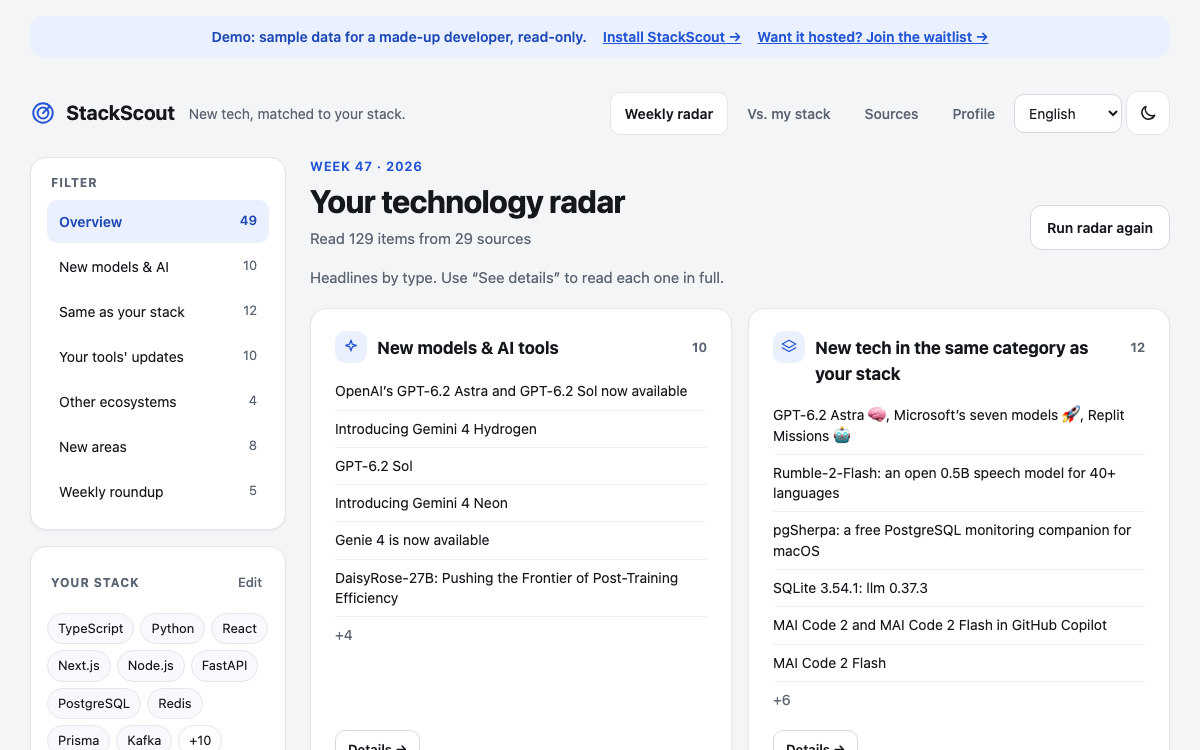
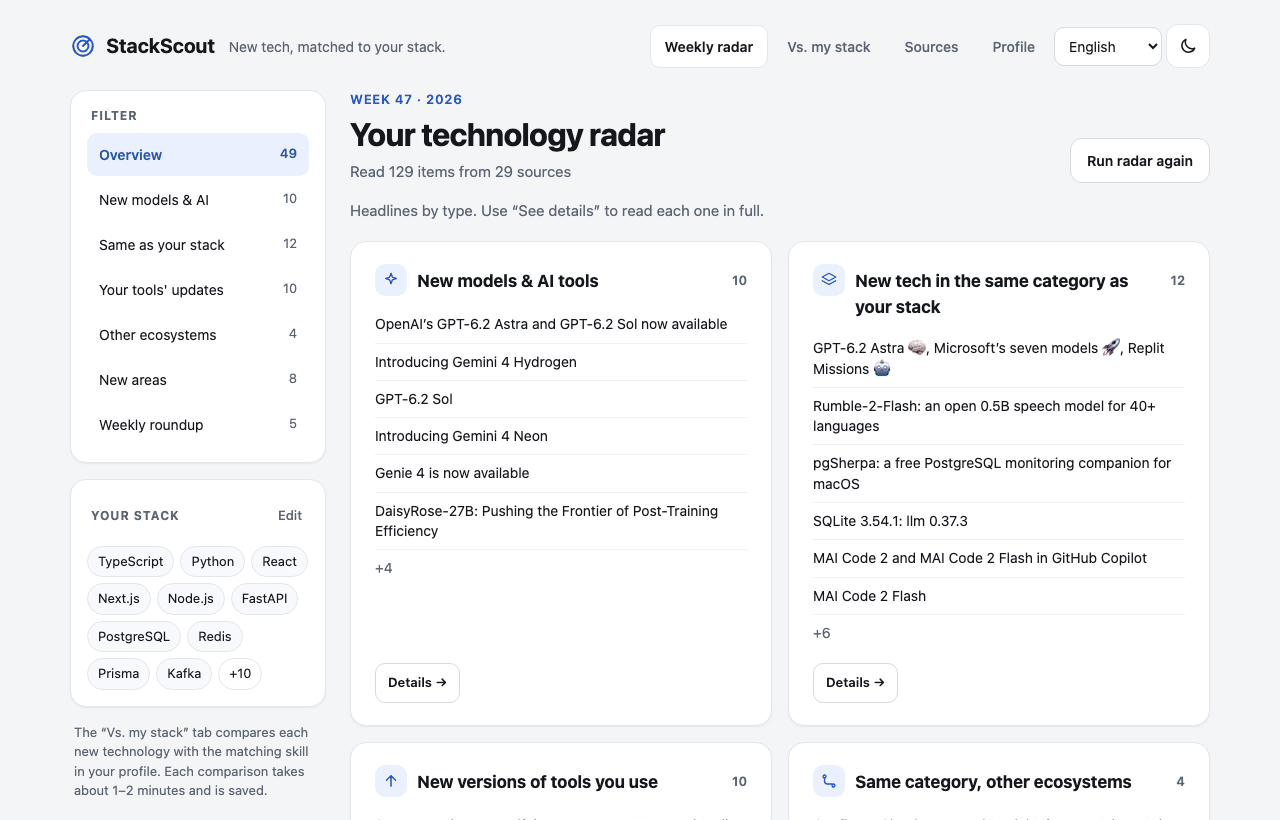
README: show every main feature with a screenshot
Feature sections with real screenshots from the demo and the rendered email
and Telegram digests (scripts/screenshots.py). Digests no longer show a stack
verdict under a new model; longer limits for comparison texts.

diff --git a/scripts/screenshots.py b/scripts/screenshots.py
@@ -1,0 +1,95 @@
+"""README screenshots, taken from the demo build and the real digest renderers.
+
+    uv run scripts/build_demo.py
+    uv run --with playwright --with pillow scripts/screenshots.py
+    (once: uv run --with playwright playwright install chromium)
+
+Writes docs/assets/*.png. PLAYWRIGHT_CHROMIUM=<path> picks a specific browser binary.
+"""
+import io, json, os, re, sys, pathlib
+from playwright.sync_api import sync_playwright
+from PIL import Image
+
+ROOT = pathlib.Path(__file__).resolve().parents[1]
+sys.path.insert(0, str(ROOT))
+from stackscout import render  # noqa: E402
+
+DEMO = (ROOT / "docs" / "index.html")
+OUT = ROOT / "docs" / "assets"; OUT.mkdir(parents=True, exist_ok=True)
+CHROME = os.environ.get("PLAYWRIGHT_CHROMIUM") or None
+
+def save(png: bytes, name: str, width: int | None = None):
+    img = Image.open(io.BytesIO(png)).convert("RGB")
+    if width and img.width > width:
+        img = img.resize((width, round(img.height * width / img.width)), Image.LANCZOS)
+    img.quantize(colors=256, method=Image.Quantize.MEDIANCUT, dither=Image.Dither.NONE).save(OUT / name, optimize=True)
+    print(f"{name}: {img.width}x{img.height} {(OUT / name).stat().st_size // 1024} KB")
+
+snap = json.loads(re.search(r"window.SS_DEMO = (\{.*?\});</script>", DEMO.read_text(), re.S).group(1).replace("<\\/", "</"))
+
+with sync_playwright() as p:
+    b = p.chromium.launch(executable_path=CHROME)
+    ctx = b.new_context(viewport={"width": 1280, "height": 820}, locale="en-US", device_scale_factor=1)
+    page = ctx.new_page()
+    page.goto(DEMO.as_uri()); page.evaluate("localStorage.setItem('ss-theme','light')"); page.reload(); page.wait_for_selector(".ovcard")
+    page.evaluate("document.querySelector('.demobar')?.remove()")
+    def clean():
+        page.evaluate("document.querySelector('.demobar')?.remove()")
+
+    save(page.screenshot(), "overview.png")
+    # New models & AI: the feed, then the rivals drawer
+    page.locator("aside .filters button").nth(1).click(); page.wait_for_timeout(250); clean()
+    page.locator(".titlebtn").first.click(); page.wait_for_selector(".drawer .rival"); page.wait_for_timeout(250); clean()
+    save(page.screenshot(), "rivals.png")
+    page.keyboard.press("Escape")
+    # Vs. my stack: grouped list, then one comparison's details and its sources
+    page.locator("nav.topnav .tab").nth(1).click(); page.wait_for_timeout(300); clean()
+    save(page.screenshot(), "vs-stack.png")
+    # The comparison with full texts (nothing cut with "…") and the most independent sources.
+    shown = page.locator("article.item strong").all_inner_texts()
+    best = max((c for k, c in snap["comparisons"].items()
+                if not c.get("fit", "").endswith("…") and not c.get("what_is_new", "").endswith("…")
+                and any(c["new"] == n or n.startswith(c["new"] + " ") for n in shown)),
+               key=lambda c: (c.get("independent_sources", 0), len(c.get("pros", [])) + len(c.get("cons", []))))
+    print("detail:", best["new"], "vs", best["current"])
+    art = page.locator("article.item").filter(has=page.locator("strong", has_text=best["new"])).first
+    art.locator("button.cmpline").click(); page.wait_for_selector(".drawer .verdict"); page.wait_for_timeout(250); clean()
+    save(page.locator(".drawer").screenshot(), "stack-detail.png", width=560)
+    page.locator(".drawer").evaluate("d => d.scrollTop = d.scrollHeight"); page.wait_for_timeout(200)
+    save(page.locator(".drawer").screenshot(), "sources-cited.png", width=560)
+    page.keyboard.press("Escape")
+    # Profile and sources
+    page.locator("nav.topnav .tab").nth(3).click(); page.wait_for_timeout(300); clean()
+    save(page.screenshot(), "profile.png")
+    page.locator("nav.topnav .tab").nth(2).click(); page.wait_for_timeout(400); clean()
+    save(page.screenshot(), "sources.png")
+    # Dark theme in Japanese, light in Vietnamese
+    page.locator("nav.topnav .tab").first.click(); page.locator("aside .filters button").first.click()
+    page.locator("nav.topnav select").select_option("ja"); page.locator("header .iconbtn").click(); page.wait_for_timeout(300); clean()
+    save(page.screenshot(), "dark-ja.png", width=900)
+    page.locator("header .iconbtn").click(); page.locator("nav.topnav select").select_option("vi"); page.wait_for_timeout(300); clean()
+    save(page.screenshot(), "light-vi.png", width=900)
+    ctx.close()
+
+    # Phone: the compare tab
+    m = b.new_context(viewport={"width": 390, "height": 780}, locale="en-US", device_scale_factor=2, is_mobile=True).new_page()
+    m.goto(DEMO.as_uri()); m.wait_for_selector(".ovcard"); m.evaluate("document.querySelector('.demobar')?.remove()")
+    m.locator("aside .filters button").nth(1).click(); m.wait_for_timeout(200)
+    m.locator(".titlebtn").first.click(); m.wait_for_selector(".drawer .rival"); m.wait_for_timeout(300)
+    save(m.screenshot(), "mobile.png", width=390)
+    m.context.close()
+
+    # The weekly digest as it is delivered: email (HTML) and Telegram (HTML message)
+    model = render.build(snap["report"], snap["comparisons"], snap["market"], "en")
+    _, _, page_html = render.email(model)
+    e = b.new_context(viewport={"width": 760, "height": 900}).new_page()
+    e.set_content('<div style="background:#f3f4f6;padding:24px"><div style="background:#fff;border-radius:12px;padding:24px 28px;'
+                  'box-shadow:0 1px 3px rgba(0,0,0,.08)"><div style="font:600 13px -apple-system,Segoe UI,sans-serif;color:#6b7280;'
+                  f'margin-bottom:14px">Subject: {model["subject"]}</div>{page_html}</div></div>')
+    save(e.screenshot(), "digest-email.png")
+    msg = render.telegram(model)[0]
+    e.set_content('<div style="background:#0e1621;padding:24px;min-height:900px"><div style="max-width:620px;background:#182533;color:#e9edef;'
+                  'border-radius:14px;padding:14px 16px;font:14px/1.5 -apple-system,Segoe UI,sans-serif;white-space:pre-wrap">'
+                  + msg.replace("<a ", '<a style="color:#6ab3f3" ') + '</div></div>')
+    save(e.screenshot(), "digest-telegram.png")
+    b.close()

diff --git a/tests/test_radar.py b/tests/test_radar.py
@@ -264,7 +264,7 @@ def test_compare_caps_length_for_the_newsletter():
         "cons": [{"text": f"con {i}", "sources": [2]} for i in range(6)]})
     assert len(out["pros"]) == len(out["cons"]) == compare.MAX_CLAIMS
     assert len(out["pros"][0]["text"]) == compare.MAX_CLAIM_CHARS and out["pros"][0]["text"].endswith("…")
-    assert len(out["what_is_new"]) <= 320 and len(out["fit"]) <= 260
+    assert len(out["what_is_new"]) <= 600 and len(out["fit"]) <= 500
 
 
 # ---------------------------------------------------------------- digest end to end
@@ -577,3 +577,11 @@ def test_schedule_next_run_is_the_coming_weekday():
     assert main.next_run(wed, "mon", "08:00") == datetime(2026, 11, 23, 8, 0, tzinfo=tz)
     assert main.next_run(wed, "wed", "10:30") == datetime(2026, 11, 18, 10, 30, tzinfo=tz)  # later today
     assert main.next_run(wed, "wed", "08:00") == datetime(2026, 11, 25, 8, 0, tzinfo=tz)  # already passed
+
+
+def test_digest_shows_no_stack_verdict_under_a_new_model():
+    report = {"week": "2026-W47", "stats": {"items": 1, "sources": 1},
+              "ai_news": [{"name": "Gemini 4", "group": "models", "category": "llm-provider-sdk", "rivals": ["Anthropic SDK"]}]}
+    text = "\n".join(digest.render_telegram(report, {"gemini 4|anthropic sdk": {"current": "Anthropic SDK", "recommendation": "trial"}},
+                                           lang="en", market={"gemini 4": {"rivals": [{"name": "GPT-6.2"}]}}))
+    assert "vs Anthropic SDK" not in text and "↳ Vs.: GPT-6.2" in text

diff --git a/stackscout/render.py b/stackscout/render.py
@@ -13,6 +13,8 @@ from typing import Callable
 from . import i18n
 
 AI_GROUP_ORDER = ("models", "coding", "agents")
+# New models are compared with rival models (market), never with an SDK of the stack.
+MODEL_CATEGORIES = frozenset({"llm-provider-sdk", "local-llm-inference"})
 # Reports written before group codes stored the Vietnamese label.
 AI_GROUP_FROM_VI = {"Model mới": "models", "Công cụ AI lập trình": "coding", "Agent & framework": "agents"}
 ECOSYSTEM_LABEL = {"dotnet": ".NET", "node": "Node.js", "python": "Python", "jvm": "JVM", "go": "Go",
@@ -99,6 +101,8 @@ def _item(b: dict, detail: str = "", verdicts: list[str] | None = None) -> dict:
 
 
 def _stack_verdict(b: dict, comparisons: dict, lang: str) -> list[str]:
+    if b.get("category") in MODEL_CATEGORIES:
+        return []
     for rival in b.get("rivals") or []:
         c = comparisons.get(f"{b['name'].casefold()}|{rival.casefold()}")
         if c:

diff --git a/stackscout/compare.py b/stackscout/compare.py
@@ -129,10 +129,10 @@ def finalize(tech: dict, rival: str, data: dict) -> dict:
         "category": tech["category"],
         "category_label": config.categories().get(tech["category"], tech["category"]),
         "ecosystem": tech["ecosystem"],
-        "what_is_new": _cap(str(data.get("what_is_new") or tech.get("summary") or ""), 320),
+        "what_is_new": _cap(str(data.get("what_is_new") or tech.get("summary") or ""), 600),
         "pros": pros,
         "cons": cons,
-        "fit": _cap(str(data.get("fit") or ""), 260),
+        "fit": _cap(str(data.get("fit") or ""), 500),
         "recommendation": recommendation,
         "confidence": confidence,
         "sources": sources,

diff --git a/stackscout/digest.py b/stackscout/digest.py
@@ -38,7 +38,8 @@ AI_GROUPS = {
 AI_GROUP_ORDER = ("models", "coding", "agents")
 # "llm-provider-sdk" holds both models and SDKs: a new model is never compared
 # with an SDK of the stack, only with rival models (market comparison).
-MODEL_CATEGORIES = frozenset(c for c, g in AI_GROUPS.items() if g == "models")
+MODEL_CATEGORIES = render.MODEL_CATEGORIES
+assert MODEL_CATEGORIES == {c for c, g in AI_GROUPS.items() if g == "models"}
 MAX_THEME_ITEMS = 150
 
 

diff --git a/README.md b/README.md
@@ -18,18 +18,96 @@ A weekly tech radar that reads the sources that matter, picks what is relevant t
 
 Keeping up is a part-time job: new models every week, new libraries, release notes, benchmarks that disagree. Most newsletters list *everything*. StackScout starts from **your stack** and answers one question per item: *should I care, and how does it compare with what I use today?*
 
-- **New models & AI tools first**, straight from first-party channels (Anthropic, OpenAI, Google DeepMind, Gemini, Hugging Face…), each compared with its **3–5 strongest competitors**: pros, cons, which one to pick, every claim linked.
-- **Vs. my stack**: every new technology of the same kind as one of your tools is **compared automatically** with that tool: *adopt, trial, watch or skip*, with independent benchmarks preferred over vendor marketing.
-- **Your tools' updates**, other ecosystems, new areas worth a look, and a weekly roundup, in one short digest.
-- **Delivered where you read**: web, Telegram, email, Slack, Discord or any webhook.
-- **5 languages**: English, Tiếng Việt, 中文, 日本語, 한국어 (interface, AI-written content and digests).
-- **Private by design**: your profile is a list of technology names and levels. No project names, no employer, nothing about your work.
+## Features
+
+### 📡 Your week at a glance
+
+One page with the headlines of the week, grouped by what they mean for you: new AI models and tools, new tech of the same kind as your stack, updates to tools you already use, other ecosystems, new areas, and a roundup. Click **Details** to read each group in full.
+
+<img src="docs/assets/overview.png" alt="Weekly overview: headlines grouped by type" width="100%">
+
+### 🤖 New AI models, compared with their strongest rivals
+
+Straight from first-party channels (Anthropic, OpenAI, Google DeepMind, Gemini, Hugging Face…). Click a model and StackScout has already looked up its **3–5 strongest competitors**: what it does better, what it does worse, and which one to pick, with benchmark numbers, prices and a link behind every line.
+
+<img src="docs/assets/rivals.png" alt="GPT-6.2 Astra compared with Claude Fable 5.2, Gemini 4 Carbon and others" width="100%">
+
+### 🧩 Compared with your stack, automatically
+
+Every new technology of the same kind as one of your tools is compared with that tool right after the radar runs, grouped by your skills. Each one gets a verdict, **adopt, trial, watch or skip**, plus what fits you and what doesn't. Use **⋯** to compare it with any other tool in your profile.
+
+<table>
+<tr>
+<td width="62%"><img src="docs/assets/vs-stack.png" alt="New tools grouped by the skill they compete with, each with a verdict"></td>
+<td width="38%"><img src="docs/assets/stack-detail.png" alt="SQLite vs PostgreSQL: verdict, fit, pros and cons"></td>
+</tr>
+</table>
+
+### 🔗 Every claim has a source
+
+Rules enforced in code, not left to the AI:
+
+- a pro or con without a valid link is dropped;
+- fewer than 2 sources means *"not enough data yet"*;
+- independent benchmarks and hands-on reports are preferred, and labelled; with no independent source, confidence can't be *high*.
+
+<table>
+<tr>
+<td width="50%"><img src="docs/assets/sources-cited.png" alt="Numbered sources, independent ones labelled"></td>
+<td width="50%">
+
+**What you see in each comparison**
+
+- the verdict and the confidence, with how many sources are independent
+- a short *for you* note based on your stack
+- what is new, in one or two sentences
+- at most 3 pros and 3 cons, each with its sources `[1]` `[2]`
+- the source list: vendor posts, independent benchmarks, experience reports
+
+</td>
+</tr>
+</table>
+
+### 📬 The digest, where you read
+
+Every week, in your language, on any of: **Telegram, email, Slack, Discord**, or any **webhook** (n8n, Zapier, Make…). Under each item: the verdict against your tool, or the rivals of a new model.
+
+<table>
+<tr>
+<td width="50%"><b>Email</b><br><img src="docs/assets/digest-email.png" alt="Weekly digest by email"></td>
+<td width="50%"><b>Telegram</b><br><img src="docs/assets/digest-telegram.png" alt="Weekly digest on Telegram"></td>
+</tr>
+</table>
+
+### 👤 Your profile in your own words, private by design
+
+Type what you use, typos and all (*"c#, entity framwork, postgres, k8s"*), or generate it from your code or CV with the included prompt. AI turns it into canonical names and levels; you confirm before anything is saved. **Only technology names and levels are stored**: no project names, no employer, nothing about your work.
+
+<img src="docs/assets/profile.png" alt="Skill profile grouped by category, with levels" width="100%">
+
+### 📰 Sources that matter, picked for your stack
+
+About 60 curated, live feeds. First-party AI channels are always on, the official blogs and release feeds of *your* technologies switch on by themselves, and community sources (Hacker News, trending GitHub repos, Lobsters…) are one click away. Add any blog, RSS feed or GitHub repo.
+
+<img src="docs/assets/sources.png" alt="Source list with first-party and official feeds" width="100%">
+
+### 🌏 5 languages, light and dark, on your phone
+
+English, Tiếng Việt, 中文, 日本語, 한국어: the interface, the AI-written summaries and comparisons, the digests and the Telegram bot.
+
+<table>
+<tr>
+<td width="40%"><img src="docs/assets/dark-ja.png" alt="Dark theme in Japanese"></td>
+<td width="40%"><img src="docs/assets/light-vi.png" alt="Light theme in Vietnamese"></td>
+<td width="20%"><img src="docs/assets/mobile.png" alt="Rival comparison on a phone"></td>
+</tr>
+</table>
 
 ## How it works
 
-1. **Profile.** Describe what you use in your own words ("c#, entity framwork, postgres, k8s"), or generate it from your code or CV with the included prompt. AI normalises it to canonical names and a fixed taxonomy; you confirm before anything is saved.
-2. **Sources.** ~60 curated, live feeds (`config/industries.yaml`): first-party AI channels always on; official blogs and release feeds for *your* stack switch on automatically; community sources (Hacker News, trending GitHub repos, Lobsters…) are opt-in. Add any blog, RSS feed or GitHub repo.
-3. **Radar.** Each week's items are classified into the same taxonomy, then **matched in plain Python**:
+1. **Profile**: your technologies and levels, normalised to a fixed taxonomy.
+2. **Collect**: the week's items from your sources (RSS/Atom, release feeds, Hacker News, GitHub, sitemaps), deduplicated across weeks.
+3. **Classify** with AI into the same taxonomy, then **match in plain Python**:
 
    | Match | What you get |
    |---|---|
@@ -39,11 +117,7 @@ Keeping up is a part-time job: new models every week, new libraries, release not
    | New model or AI tool | **Comparison with its strongest competitors** |
    | Category you don't have yet | "Worth a look" |
 
-### Rules enforced in code, not left to the AI
-
-- A pro or con without a valid source link is dropped; fewer than 2 sources means *"not enough data yet"*; no independent source caps confidence at *medium*.
-- Every AI step runs without tools, except comparisons, which get web search and fetch only. Your profile is never put in a search query.
-- Items already reported in an earlier week are skipped.
+4. **Compare** with web search, then enforce the source rules in code; **deliver** on your channels.
 
 ## Quick start
 
@@ -106,6 +180,7 @@ The **Sources** tab shows which channels are on and can send the latest digest a
 
 - Your profile stores **technology names and levels only**. Project names, repos, what they are for and anything about your employer are dropped on save and on import; URLs, emails, IPs, hostnames and secret-looking strings are scrubbed from free text.
 - Secrets (API key, bot token, SMTP password, webhook URLs) live in `.env` and never go through the browser.
+- Every AI step runs without tools, except comparisons, which get web search and fetch only. Your profile is never put in a search query.
 - Data stays on your machine: `data/` (profiles, sources, comparisons) and `reports/` are plain files.
 
 ## Project layout

diff --git a/README.vi.md b/README.vi.md
@@ -2,13 +2,83 @@
 
 **Công nghệ mới, đối chiếu với stack của bạn.** · [English](README.md) · [Xem demo](https://huynguyenvietwork.github.io/StackScout/)
 
-StackScout là radar công nghệ hằng tuần: đọc các nguồn chính chủ và uy tín, chọn ra tin liên quan tới **đúng những công cụ bạn đang dùng**, rồi tự so sánh từng công nghệ mới với chúng, mọi nhận định đều có link nguồn.
+StackScout là radar công nghệ hằng tuần: đọc các nguồn chính chủ và uy tín, chọn ra tin liên quan tới **đúng những công cụ bạn đang dùng**, rồi tự so sánh từng công nghệ mới với chúng. Mọi nhận định đều có link nguồn.
 
-- **Model & công cụ AI mới** từ kênh chính chủ (Anthropic, OpenAI, Google DeepMind, Gemini…), mỗi cái được so với **3–5 đối thủ mạnh nhất**: hơn, kém, nên chọn khi nào.
-- **So với stack**: công nghệ mới cùng loại với công cụ bạn dùng được **tự động so sánh**: nên chuyển, thử nghiệm, theo dõi hay bỏ qua. Ưu tiên benchmark độc lập.
-- **Gửi bản tin hằng tuần** qua web, Telegram, email, Slack, Discord hoặc webhook.
-- **5 ngôn ngữ**: Tiếng Việt, English, 中文, 日本語, 한국어.
-- **Bảo mật**: hồ sơ chỉ lưu tên công nghệ và mức độ, không lưu tên dự án hay thông tin công ty.
+![StackScout demo](docs/assets/demo.gif)
+
+## Tính năng chính
+
+### 📡 Cả tuần trong một màn hình
+
+Tiêu đề tin trong tuần được chia theo loại: model và công cụ AI mới, công nghệ cùng loại với stack của bạn, bản mới của công cụ bạn đang dùng, hệ sinh thái khác, lĩnh vực mới và tổng hợp tuần. Bấm **Xem chi tiết** để đọc đầy đủ từng loại.
+
+<img src="docs/assets/overview.png" alt="Màn tổng quan" width="100%">
+
+### 🤖 Model AI mới, so với các đối thủ mạnh nhất
+
+Tin lấy thẳng từ kênh chính chủ (Anthropic, OpenAI, Google DeepMind, Gemini, Hugging Face…). Bấm vào một model là thấy ngay so sánh với **3–5 đối thủ mạnh nhất**: hơn gì, kém gì, nên chọn khi nào. Có số liệu benchmark, giá, và link nguồn cho từng ý.
+
+<img src="docs/assets/rivals.png" alt="So sánh model với đối thủ" width="100%">
+
+### 🧩 Tự so sánh với stack của bạn
+
+Mỗi công nghệ mới cùng loại với một công cụ bạn dùng được **tự so sánh** ngay sau khi radar chạy, và chia theo từng skill. Mỗi cái có kết luận: **nên chuyển, thử nghiệm, theo dõi hay bỏ qua**, kèm nhận xét phù hợp với bạn đến đâu. Bấm **⋯** để so với công cụ khác trong hồ sơ.
+
+<table>
+<tr>
+<td width="62%"><img src="docs/assets/vs-stack.png" alt="Danh sách so sánh theo skill"></td>
+<td width="38%"><img src="docs/assets/stack-detail.png" alt="Chi tiết SQLite so với PostgreSQL"></td>
+</tr>
+</table>
+
+### 🔗 Nhận định nào cũng có nguồn
+
+Các quy tắc này được kiểm tra bằng code, không phó mặc cho AI:
+
+- ý hơn/kém nào không có link hợp lệ thì bị bỏ;
+- dưới 2 nguồn thì ghi *"chưa đủ dữ liệu"*;
+- ưu tiên benchmark độc lập và bài trải nghiệm thật, có gắn nhãn; không có nguồn độc lập thì độ tin cậy không được ghi *cao*.
+
+<img src="docs/assets/sources-cited.png" alt="Danh sách nguồn có nhãn độc lập" width="50%">
+
+### 📬 Bản tin gửi tới nơi bạn đọc
+
+Mỗi tuần, theo ngôn ngữ của bạn, qua **Telegram, Email, Slack, Discord** hoặc **webhook** (n8n, Zapier, Make…). Dưới mỗi tin có kết luận so với công cụ của bạn, hoặc danh sách đối thủ của model mới.
+
+<table>
+<tr>
+<td width="50%"><b>Email</b><br><img src="docs/assets/digest-email.png" alt="Bản tin qua email"></td>
+<td width="50%"><b>Telegram</b><br><img src="docs/assets/digest-telegram.png" alt="Bản tin qua Telegram"></td>
+</tr>
+</table>
+
+### 👤 Hồ sơ gõ tự nhiên, bảo mật từ thiết kế
+
+Cứ gõ những gì bạn dùng, sai chính tả cũng được (*"c#, entity framwork, postgres, k8s"*), hoặc tạo từ code hay CV bằng prompt có sẵn. AI chuẩn hoá tên và mức độ, bạn xác nhận rồi mới lưu. **Chỉ lưu tên công nghệ và mức độ**: không lưu tên dự án, công ty hay bất cứ gì về công việc.
+
+<img src="docs/assets/profile.png" alt="Hồ sơ kỹ năng" width="100%">
+
+### 📰 Nguồn tin chất lượng, chọn theo stack
+
+Khoảng 60 nguồn đã chọn lọc và kiểm tra còn hoạt động:
+- **Kênh AI chính chủ** luôn bật.
+- **Blog và trang phát hành chính thức** của công nghệ bạn dùng tự bật theo hồ sơ.
+- **Nguồn cộng đồng** (Hacker News, repo GitHub mới nổi…) bật bằng một cú bấm.
+- Thêm được bất kỳ blog, RSS hay repo GitHub nào.
+
+<img src="docs/assets/sources.png" alt="Danh sách nguồn tin" width="100%">
+
+### 🌏 5 ngôn ngữ, giao diện sáng/tối, dùng tốt trên điện thoại
+
+Tiếng Việt, English, 中文, 日本語, 한국어 cho cả giao diện, nội dung AI viết, bản tin và bot Telegram.
+
+<table>
+<tr>
+<td width="40%"><img src="docs/assets/dark-ja.png" alt="Giao diện tối tiếng Nhật"></td>
+<td width="40%"><img src="docs/assets/light-vi.png" alt="Giao diện sáng tiếng Việt"></td>
+<td width="20%"><img src="docs/assets/mobile.png" alt="Trên điện thoại"></td>
+</tr>
+</table>
 
 ## Chạy thử
 
